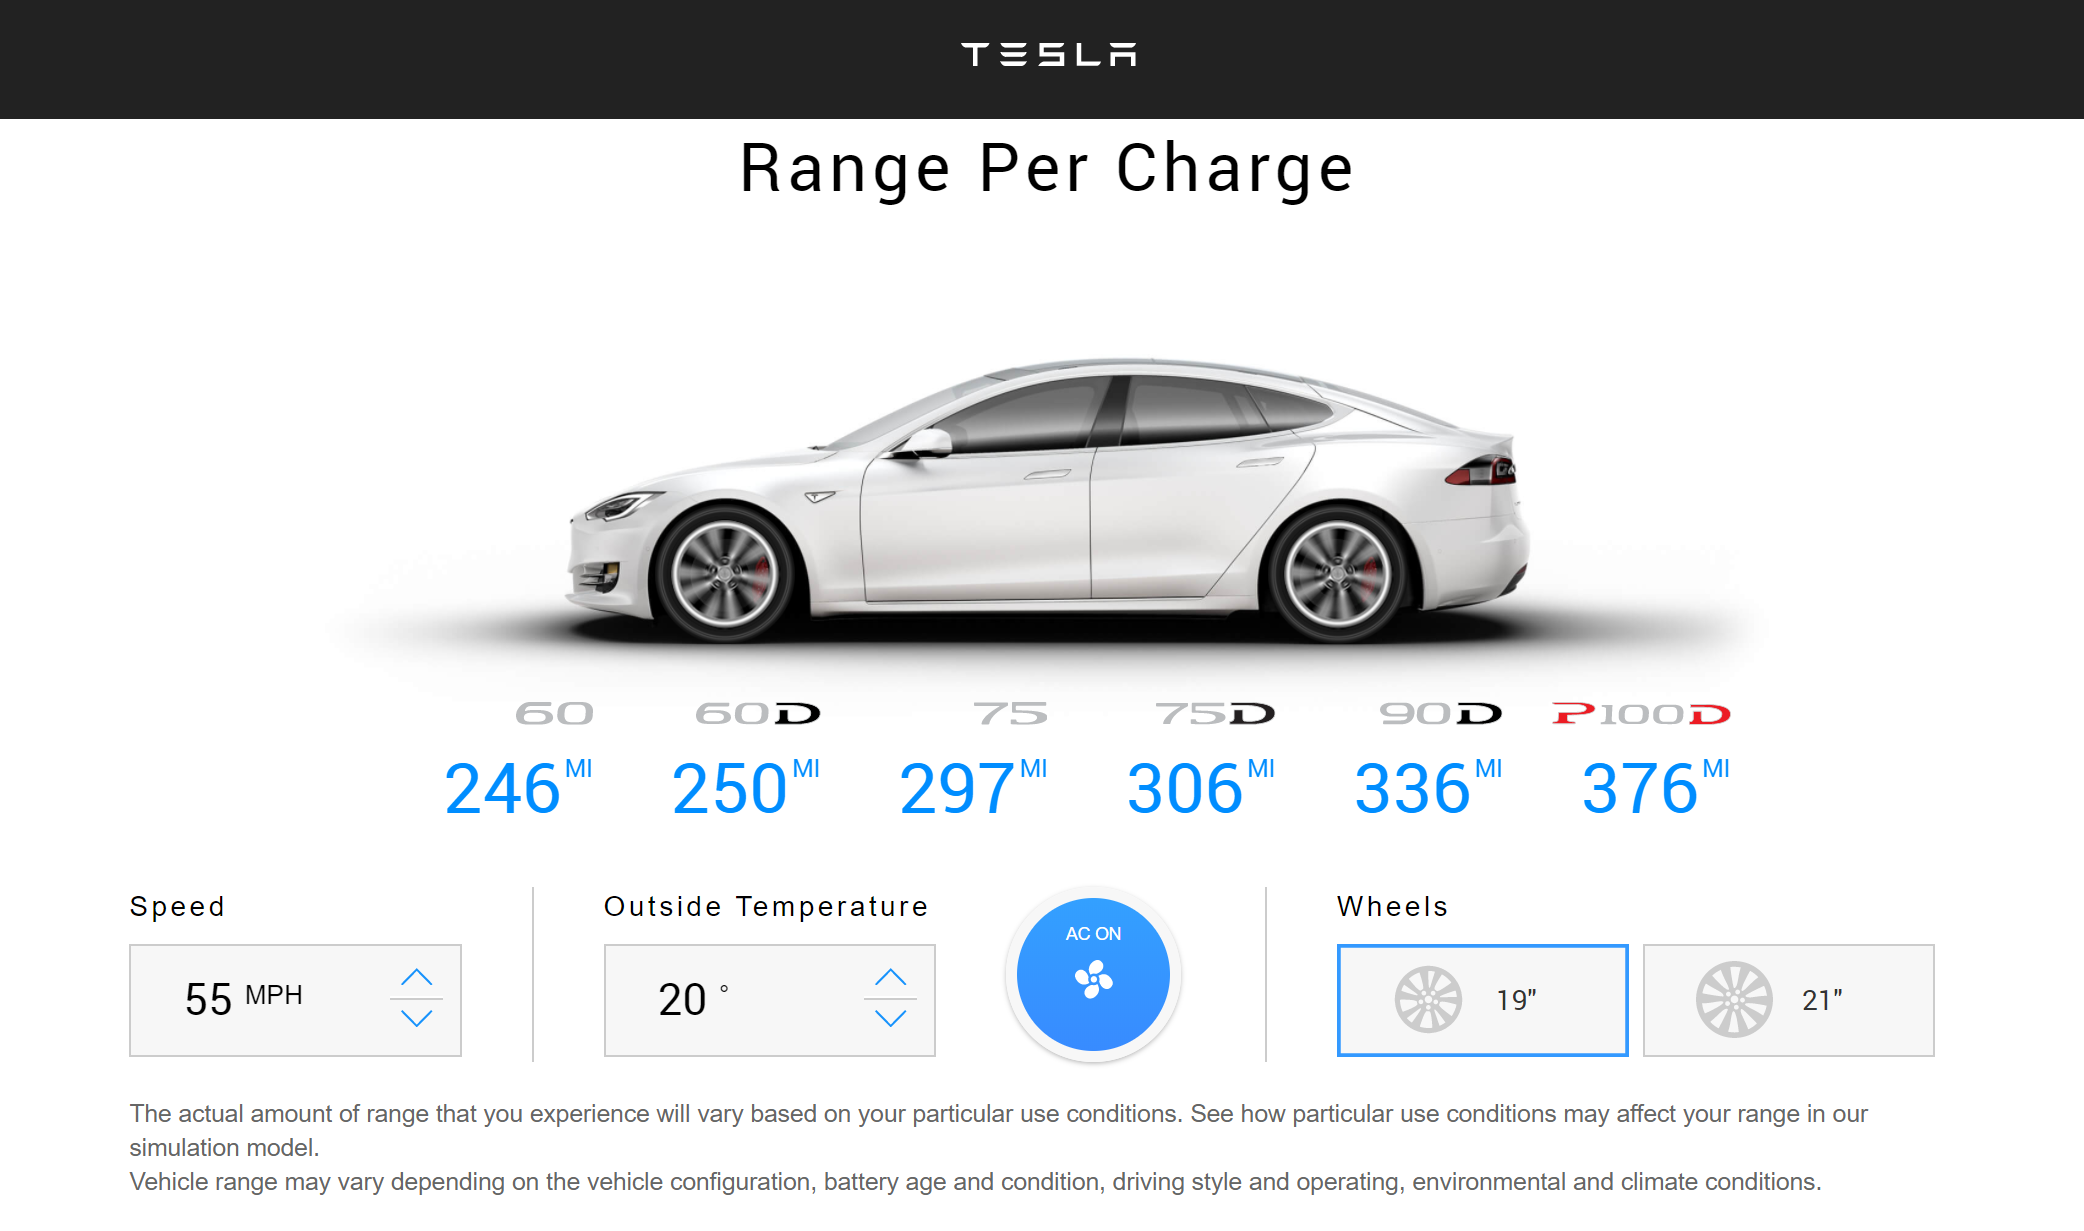
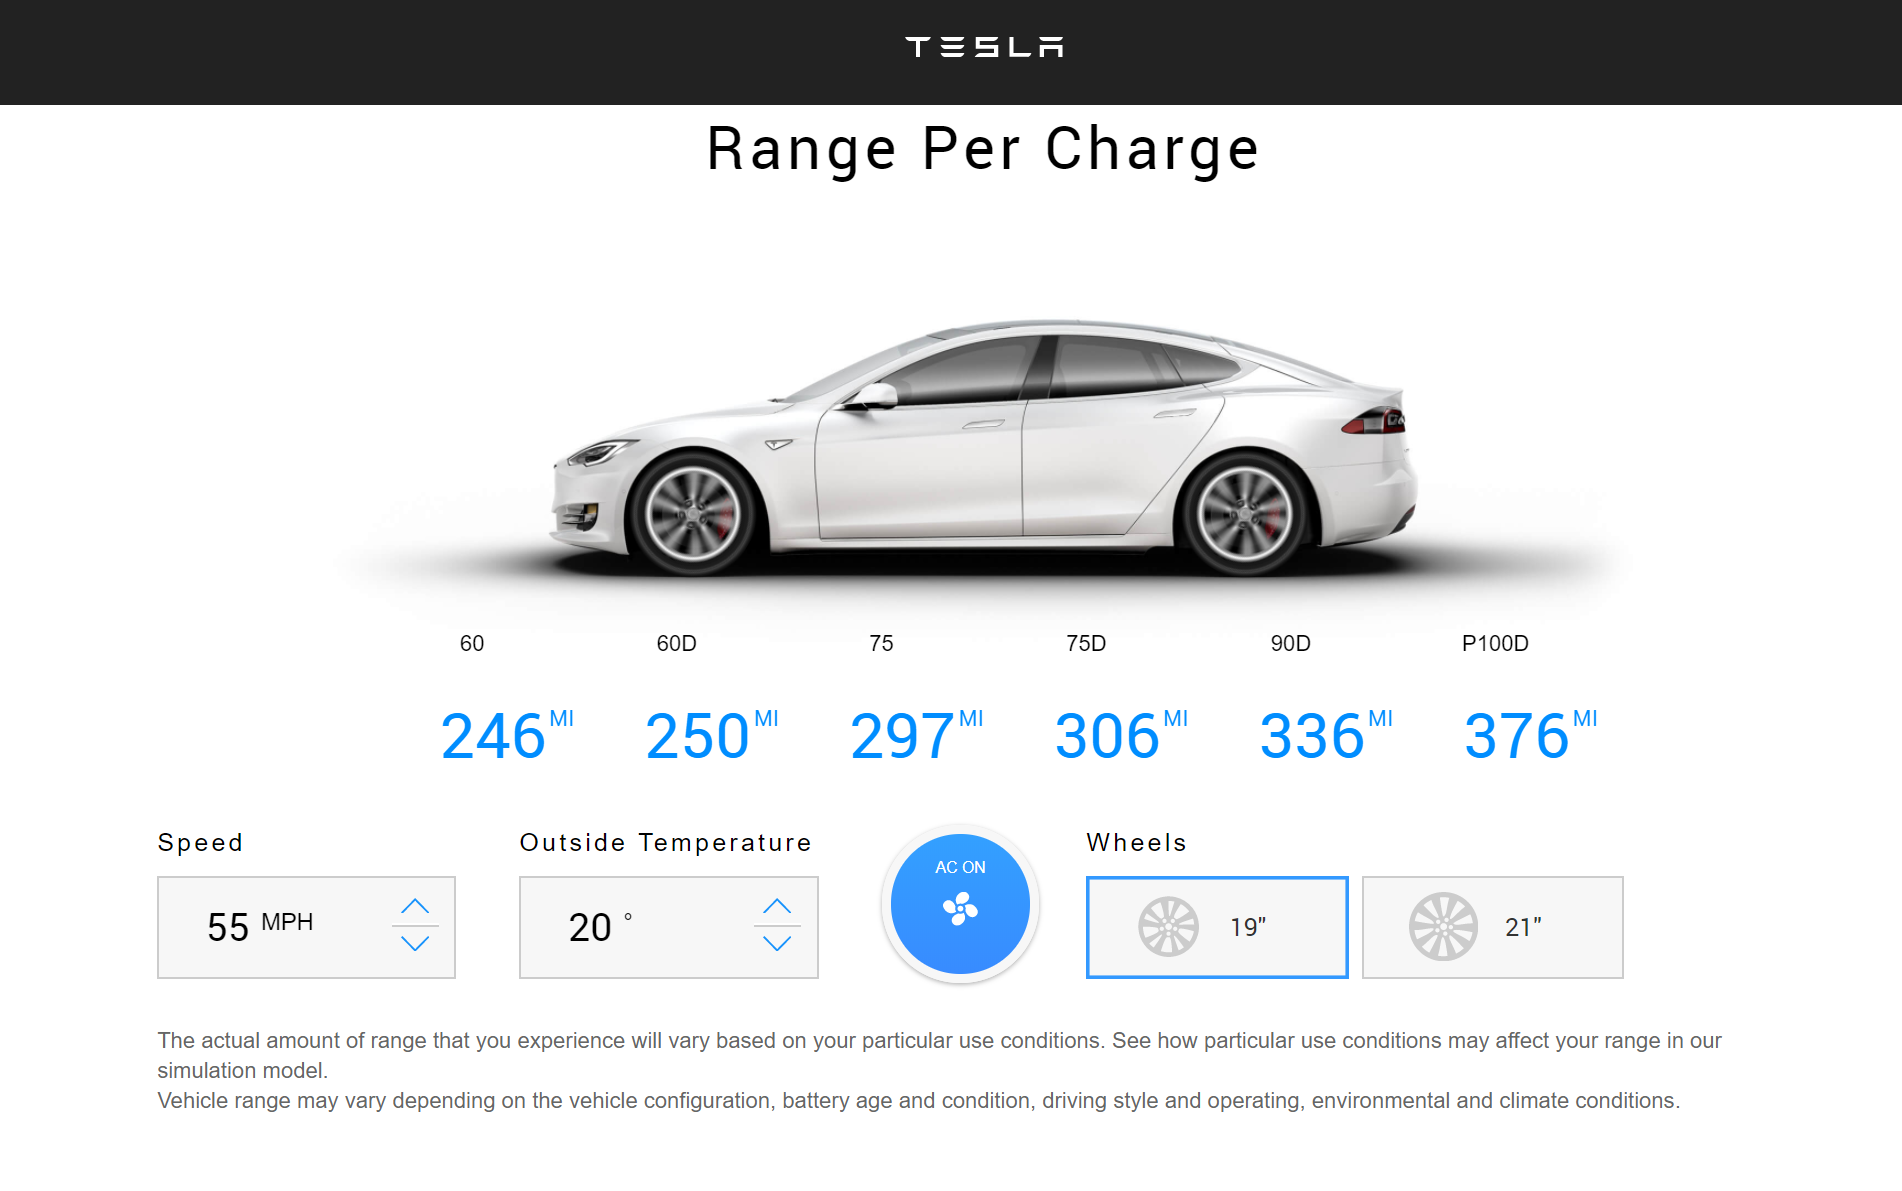
Added car models

diff --git a/src/components/TeslaStats/TeslaStats.js b/src/components/TeslaStats/TeslaStats.js
@@ -4,10 +4,13 @@ import './TeslaStats.css';
 
 const TeslaStats = (props) => {
   const listItems = props.carstats.map((stat) => (
+    // <div>
     <li key={stat.model}>
+    <label>{stat.model}</label>
       <div className={'tesla-stats-icon tesla-stats-icon--${stat.model.toLowerCase()}'}></div>
       <p>{stat.miles}</p>
     </li>
+    // </div>
   ));
 
   return (

diff --git a/src/components/TeslaStats/TeslaStats.css b/src/components/TeslaStats/TeslaStats.css
@@ -2,6 +2,13 @@
   margin: -70px 0 30px; }
   .tesla-stats ul {
     text-align: center; }
+    .tesla-stats ul label {
+      font-size: 20px;
+      font-weight: normal;
+      font-family: 'RobotoNormal';
+      position: relative;
+    }
+
     .tesla-stats ul li {
       display: inline-block;
       width: 130px;
